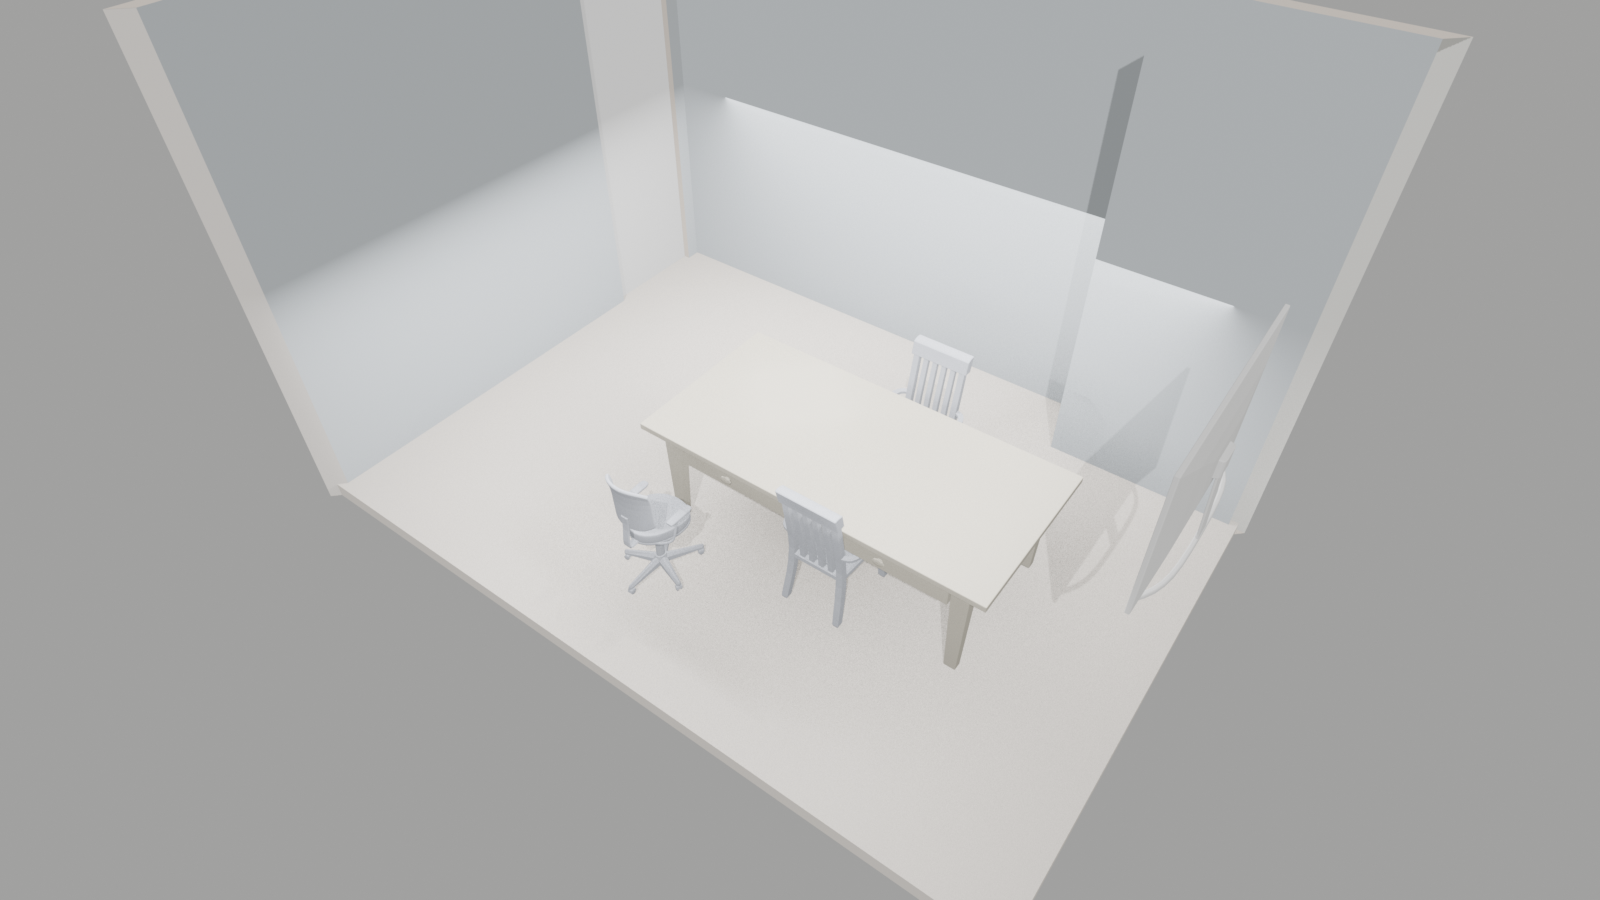
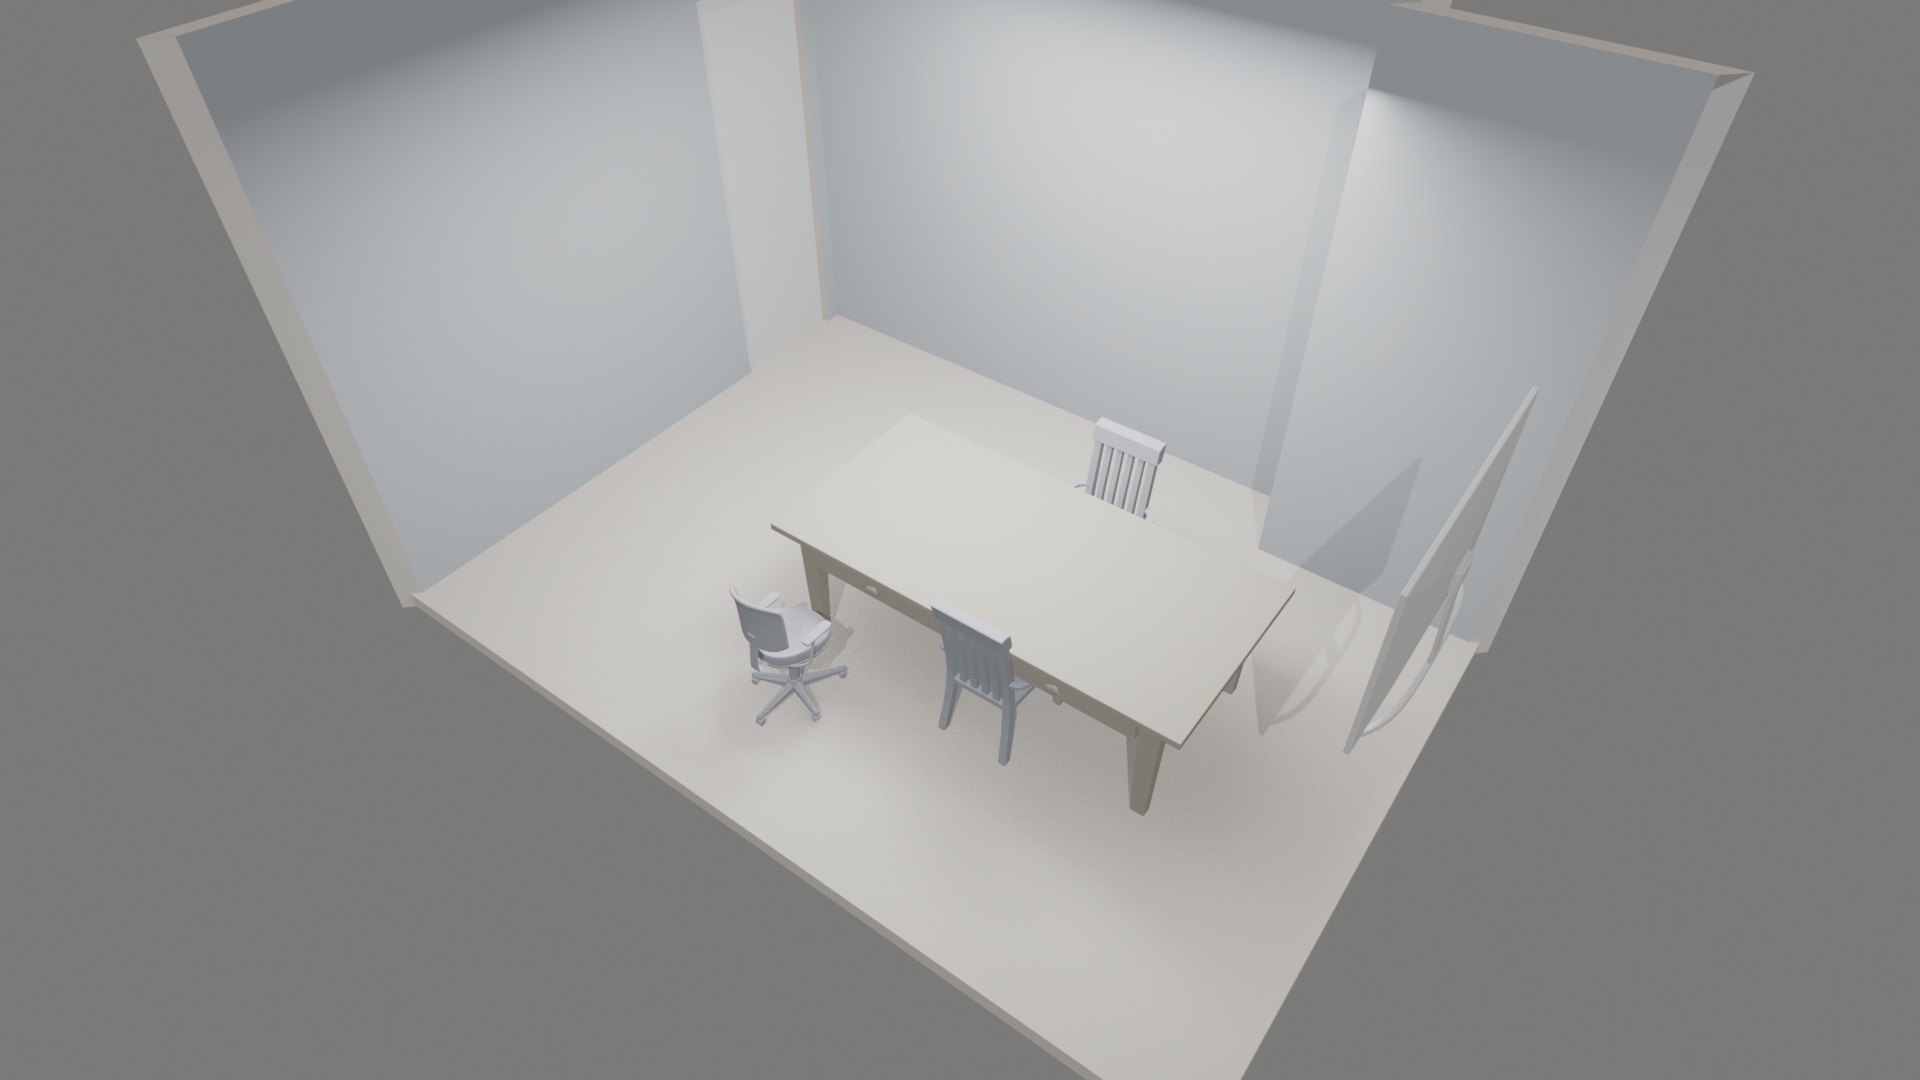
Renders per kyle: eye-level sofa + door shots at 1920x1080, darker; find_spot spacing + wall-edge fixes
scripts/render_blender.py: --shots overview,sofa,door; eye level 1.55 m with the ceiling on; sofa shot picks a
spot round the room with a clear line of sight to the sofa (the scanned table blocked the straight-on view);
exposure -0.6 and dimmer lights so grey fabric reads grey. renders/room_{before,after,sofa,door}.png.
fit/layout.py: new 'spacing' check (a new piece keeps 12 in from other furniture, else unsure) - OSTAVALL had
been placed 4.6 in from the room's table; corners exactly on a wall line count as inside (find_spot's rounded
positions were failing later rechecks, so lamp/rug/table got no spot). 3 new tests.

Decided: 12 in spacing for new pieces (team default, not a code), because 4.6 in reads as a collision.
Decided: 0.25 in wall-edge tolerance, because find_spot returns positions rounded to 0.1 in.

diff --git a/scripts/render_blender.py b/scripts/render_blender.py
@@ -1,10 +1,12 @@
 """Render the scanned room with the agent's picks, headless in Blender (stills for the demo video).
 
     /Applications/Blender.app/Contents/MacOS/Blender -b -P scripts/render_blender.py -- \
-        [--plan contracts/plan.room_scan.json] [--scan assets/room_scan_roomplan.glb] [--out renders/room] [--res 1600x900]
+        [--plan contracts/plan.room_scan.json] [--scan assets/room_scan_roomplan.glb] [--out renders/room]
+        [--res 1920x1080] [--shots overview,sofa,door]
 
-Writes <out>_before.png (the room as scanned) and <out>_after.png (with the agent's products), plus <out>.json with
-every placement. Positions are not invented: each product goes where fit.layout.find_spot says it fits (inside the
+Writes <out>_before.png (the room as scanned, cut-away from above), <out>_after.png (same view with the agent's
+products), <out>_sofa.png (eye level, facing the sofa) and <out>_door.png (eye level, from the doorway), plus
+<out>.json with every placement. Positions are not invented: each product goes where fit.layout.find_spot says it fits (inside the
 walls, clear of the door swing and the scanned furniture). Products use Kyle's models (web/public/models), stretched
 to the catalog's W x D x H; rugs (no model) are flat boxes at their real size.
 """
@@ -21,18 +23,21 @@ from mathutils import Vector
 ROOT = Path(__file__).resolve().parent.parent
 sys.path.insert(0, str(ROOT))
 from fit.layout import add_product, find_spot, layout_from_scan  # noqa: E402
-from fit.scan import load_scan  # noqa: E402
+from fit.scan import load_scan, point_in_poly  # noqa: E402
 
 IN = 0.0254  # inches -> meters
+EYE_M = 1.55  # camera height for eye-level shots
+EXPOSURE = -0.6
 
 
 def args() -> dict:
     a = sys.argv[sys.argv.index("--") + 1:] if "--" in sys.argv else []
     get = lambda f, d: a[a.index(f) + 1] if f in a else d  # noqa: E731
-    w, h = get("--res", "1600x900").lower().split("x")
+    w, h = get("--res", "1920x1080").lower().split("x")
     return {"plan": ROOT / get("--plan", "contracts/plan.room_scan.json"),
             "scan": ROOT / get("--scan", "assets/room_scan_roomplan.glb"),
-            "out": ROOT / get("--out", "renders/room"), "res": (int(w), int(h))}
+            "out": ROOT / get("--out", "renders/room"), "res": (int(w), int(h)),
+            "shots": get("--shots", "overview,sofa,door").split(",")}
 
 
 def place(room: dict, plan: dict, products: dict) -> list[dict]:
@@ -106,7 +111,7 @@ def add_model(item: dict, floor_z: float, models: dict) -> list:
     return [obj]
 
 
-def setup_scene(res: tuple[int, int], lo: Vector, hi: Vector):
+def setup_scene(res: tuple[int, int], lo: Vector, hi: Vector, floor_z: float):
     sc = bpy.context.scene
     for eng in ("BLENDER_EEVEE_NEXT", "BLENDER_EEVEE", "CYCLES"):
         try:
@@ -116,31 +121,129 @@ def setup_scene(res: tuple[int, int], lo: Vector, hi: Vector):
             continue
     sc.render.resolution_x, sc.render.resolution_y = res
     sc.render.film_transparent = False
+    sc.view_settings.exposure = EXPOSURE  # darker than default so mid-grey fabric reads grey, not white
     world = bpy.data.worlds.new("w") if not sc.world else sc.world
     sc.world = world
     world.use_nodes = True
-    world.node_tree.nodes["Background"].inputs["Color"].default_value = (0.92, 0.92, 0.9, 1)
-    world.node_tree.nodes["Background"].inputs["Strength"].default_value = 0.45
+    world.node_tree.nodes["Background"].inputs["Color"].default_value = (0.85, 0.85, 0.83, 1)
+    world.node_tree.nodes["Background"].inputs["Strength"].default_value = 0.35
     centre = (lo + hi) / 2
     sun = bpy.data.objects.new("sun", bpy.data.lights.new("sun", "SUN"))
-    sun.data.energy = 2.0
+    sun.data.energy = 1.5
     sun.rotation_euler = (math.radians(40), 0, math.radians(30))
     sc.collection.objects.link(sun)
+    # room light just under the ceiling, so eye-level shots (ceiling on) are lit too
     area = bpy.data.objects.new("area", bpy.data.lights.new("area", "AREA"))
-    area.data.energy, area.data.size = 250, 4
-    area.location = (centre.x, centre.y, hi.z + 1.5)
+    area.data.energy, area.data.size = 220, 2.5
+    area.location = (centre.x, centre.y, floor_z + 2.7)
     sc.collection.objects.link(area)
     cam = bpy.data.objects.new("cam", bpy.data.cameras.new("cam"))
-    cam.data.lens = 22
-    span = max(hi.x - lo.x, hi.y - lo.y)
-    cam.location = (centre.x + span * 0.55, centre.y - span * 0.75, lo.z + span * 0.95)
     target = bpy.data.objects.new("target", None)
-    target.location = (centre.x, centre.y, lo.z + 0.4)
     sc.collection.objects.link(target)
     c = cam.constraints.new("TRACK_TO")
     c.target, c.track_axis, c.up_axis = target, "TRACK_NEGATIVE_Z", "UP_Y"
     sc.collection.objects.link(cam)
     sc.camera = cam
+    return cam, target
+
+
+def _blocks(seg_a, seg_b, box) -> bool:
+    """Does the 2D segment a->b pass through the box (x0, z0, x1, z1)? (Liang-Barsky clip)"""
+    (ax, az), (bx, bz) = seg_a, seg_b
+    t0, t1 = 0.0, 1.0
+    for p, q in ((-(bx - ax), ax - box[0]), (bx - ax, box[2] - ax), (-(bz - az), az - box[1]), (bz - az, box[3] - az)):
+        if p == 0:
+            if q < 0:
+                return False
+        else:
+            t = q / p
+            if p < 0:
+                t0 = max(t0, t)
+            else:
+                t1 = min(t1, t)
+            if t0 > t1:
+                return False
+    return True
+
+
+def _clear_spot(back: str, sofa: dict, xs, zs, room: dict, placed: list) -> tuple[float, float]:
+    """Camera spot 14 in inside the walls with a clear line of sight to the sofa, closest to facing it head-on.
+
+    The sofa faces away from the wall behind it (`back`); candidates go all round the room's edge."""
+    obstacles = []
+    for it in room["items"] + [{**p, "w_in": p["dims_in"]["w"], "d_in": p["dims_in"]["d"]} for p in placed]:
+        if it.get("category") == "rug" or it.get("product_id") == sofa["product_id"] or not it.get("on_floor", True):
+            continue
+        w, d = (it["d_in"], it["w_in"]) if it.get("rotation", 0) % 180 == 90 else (it["w_in"], it["d_in"])
+        obstacles.append((it["x_in"] - w / 2, it["z_in"] - d / 2, it["x_in"] + w / 2, it["z_in"] + d / 2))
+    sx, sz = sofa["x_in"], sofa["z_in"]
+    face = {"x-": (1, 0), "x+": (-1, 0), "z-": (0, 1), "z+": (0, -1)}[back]
+    x0, x1, z0, z1 = min(xs) + 14, max(xs) - 14, min(zs) + 14, max(zs) - 14
+    cands = [(x0 + i * (x1 - x0) / 30, z) for i in range(31) for z in (z0, z1)] + \
+            [(x, z0 + i * (z1 - z0) / 30) for i in range(31) for x in (x0, x1)]
+    best = None
+    for cx, cz in cands:
+        vx, vz = cx - sx, cz - sz
+        dist = (vx * vx + vz * vz) ** 0.5
+        if dist < 60 or not point_in_poly((cx, cz), room["outline"]):
+            continue
+        if any(_blocks((cx, cz), (sx, sz), b) for b in obstacles):
+            continue
+        cos = (vx * face[0] + vz * face[1]) / dist  # 1 = straight in front of the sofa
+        if cos > 0.2 and (best is None or cos > best[0]):
+            best = (cos, (cx, cz))
+    return best[1] if best else ((x1 if face[0] > 0 else x0) if face[0] else sx, (z1 if face[1] > 0 else z0) if face[1] else sz)
+
+
+def shot(name: str, cam, target, lo: Vector, hi: Vector, floor_z: float, scan_objs: list, placed: list, room: dict):
+    """Set the camera and what's visible for one named shot. Returns False if the shot can't be made."""
+    centre = (lo + hi) / 2
+    cutaway = name == "overview"
+    for o in scan_objs:
+        kind = o.name.split("_")[0]
+        if kind == "Ceiling":
+            o.hide_render = cutaway  # eye-level shots keep the ceiling
+        elif kind in ("Wall", "Joint") and o.type == "MESH":
+            wl, wh = bounds([o])
+            c = (wl + wh) / 2
+            thin_y = (wh.y - wl.y) < (wh.x - wl.x)
+            o.hide_render = cutaway and ((thin_y and c.y < centre.y) or (not thin_y and c.x > centre.x))
+    eye = floor_z + EYE_M
+    if cutaway:
+        span = max(hi.x - lo.x, hi.y - lo.y)
+        cam.data.lens = 22
+        cam.location = (centre.x + span * 0.55, centre.y - span * 0.75, floor_z + span * 0.95)
+        target.location = (centre.x, centre.y, floor_z + 0.4)
+        return True
+    cam.data.lens = 16  # wide, like a phone's 0.5x
+    if name == "sofa":
+        sofa = next((p for p in placed if p["category"] == "sofa"), None)
+        if not sofa:
+            return False
+        xs = [q[0] for q in room["outline"]]
+        zs = [q[1] for q in room["outline"]]
+        sx, sz = sofa["x_in"], sofa["z_in"]
+        # the wall the sofa backs onto is the nearest one; stand by the opposite wall, looking at the sofa
+        sides = {"x-": sx - min(xs), "x+": max(xs) - sx, "z-": sz - min(zs), "z+": max(zs) - sz}
+        back = min(sides, key=sides.get)
+        cx, cz = _clear_spot(back, sofa, xs, zs, room, placed)
+        cam.location = (cx * IN, -cz * IN, eye)
+        target.location = (sx * IN, -sz * IN, floor_z + 0.55)
+        return True
+    if name == "door":
+        if not room["doors"]:
+            return False
+        d = room["doors"][0]
+        (dx, dz), (nx, nz) = d["center"], d["into_room"]
+        cam.location = ((dx + nx * 10) * IN, -(dz + nz * 10) * IN, eye)
+        target.location = (centre.x, centre.y, floor_z + 0.6)
+        return True
+    return False
+
+
+def render(path: str) -> None:
+    bpy.context.scene.render.filepath = path
+    bpy.ops.render.render(write_still=True)
 
 
 def main():
@@ -154,33 +257,27 @@ def main():
     bpy.ops.wm.read_factory_settings(use_empty=True)
     bpy.ops.import_scene.gltf(filepath=str(a["scan"]))
     scan_objs = list(bpy.data.objects)
-    for o in scan_objs:  # no ceiling, so the camera can look in from above
-        if o.name.startswith("Ceiling"):
-            o.hide_render = True
     floor = [o for o in scan_objs if o.name.startswith("Floor_") and o.type == "MESH"]
     lo, hi = bounds(floor or scan_objs)
     floor_z = hi.z if floor else lo.z
-    centre = (lo + hi) / 2
-    for o in scan_objs:  # cut-away view: hide the walls between the camera (front-right) and the room
-        if o.type == "MESH" and o.name.split("_")[0] in ("Wall", "Joint"):
-            wl, wh = bounds([o])
-            c = (wl + wh) / 2
-            thin_y = (wh.y - wl.y) < (wh.x - wl.x)
-            if (thin_y and c.y < centre.y) or (not thin_y and c.x > centre.x):
-                o.hide_render = True
-    setup_scene(a["res"], lo, hi)
-
+    cam, target = setup_scene(a["res"], lo, hi, floor_z)
     a["out"].parent.mkdir(parents=True, exist_ok=True)
-    bpy.context.scene.render.filepath = str(a["out"]) + "_before.png"
-    bpy.ops.render.render(write_still=True)
+    out = str(a["out"])
+    written = []
+    shot("overview", cam, target, lo, hi, floor_z, scan_objs, placed, room)
+    render(out + "_before.png")
+    written.append(out + "_before.png")
     for it in placed:
         add_model(it, floor_z, models)
-    bpy.context.scene.render.filepath = str(a["out"]) + "_after.png"
-    bpy.ops.render.render(write_still=True)
-    Path(str(a["out"]) + ".json").write_text(json.dumps(
-        {"plan": str(a["plan"].relative_to(ROOT)), "scan": str(a["scan"].relative_to(ROOT)), "placed": placed},
-        indent=1, ensure_ascii=False))
-    print(f"render: {len(placed)} products placed -> {a['out']}_before.png, {a['out']}_after.png")
+    for name in a["shots"]:
+        if shot(name, cam, target, lo, hi, floor_z, scan_objs, placed, room):
+            path = out + ("_after.png" if name == "overview" else f"_{name}.png")
+            render(path)
+            written.append(path)
+    Path(out + ".json").write_text(json.dumps(
+        {"plan": str(a["plan"].relative_to(ROOT)), "scan": str(a["scan"].relative_to(ROOT)), "placed": placed,
+         "shots": [Path(w).name for w in written]}, indent=1, ensure_ascii=False))
+    print(f"render: {len(placed)} products placed -> " + ", ".join(Path(w).name for w in written))
 
 
 main()

diff --git a/fit/layout.py b/fit/layout.py
@@ -13,6 +13,7 @@ Checks per floor item:
   in_room    every footprint corner inside the walls (the scan's outline)
   overlap    footprint doesn't overlap another floor item (chairs may tuck under tables; anything may stand on a rug)
   door_swing nothing on the floor inside the door's swing (a door-width square in front of it)
+  spacing    a new piece keeps 12 in from other furniture ("unsure" if closer)
   clearance  at least 18 in to other floor items / walls on some side to get to it ("unsure" if tighter)
 Wall-mounted items (bottom > 24 in, e.g. the TV) are skipped for floor checks.
 """
@@ -25,6 +26,8 @@ from .scan import point_in_poly
 
 CLEARANCE_IN = 18.0  # minimum gap to reach an item (team default, not a code)
 RUG_MARGIN_IN = 6.0  # same as fit.checks.DEFAULT_RUG_MARGIN_IN
+EDGE_TOL_IN = 0.25  # rounding tolerance for touching a wall
+SPACING_IN = 12.0  # a new piece keeps this far from other furniture (team default, not a code)
 TUCK_UNDER = {("dining_chair", "table"), ("dining_chair", "dining_table"), ("desk_chair", "table"),
               ("desk_chair", "desk"), ("desk_chair", "dining_table")}
 CENTRE_CATEGORIES = {"rug", "coffee_table", "dining_table", "table"}  # these go in the open, not against a wall
@@ -84,9 +87,10 @@ def check_item(room: dict, lay: list[dict], it: dict) -> list[dict]:
     fp = _footprint(it)
     out = []
     m = RUG_MARGIN_IN if it["category"] == "rug" else 0.0  # team rule: rugs stay 6 in from every wall
+    m -= EDGE_TOL_IN  # a corner exactly on the wall line counts as inside (positions are rounded to 0.1 in)
     corners = [(fp[0] - m, fp[1] - m), (fp[2] + m, fp[1] - m), (fp[2] + m, fp[3] + m), (fp[0] - m, fp[3] + m)]
     outside = [c for c in corners if not point_in_poly(c, room["outline"])]
-    within = f" (with the {m:g} in rug margin)" if m else ""
+    within = f" (with the {RUG_MARGIN_IN:g} in rug margin)" if it["category"] == "rug" else ""
     out.append(_res("in_room", NO_FIT if outside else FITS,
                     f'corner ({outside[0][0]:.0f}, {outside[0][1]:.0f}) in is outside the walls{within}' if outside
                     else f"all four corners inside the walls{within}"))
@@ -99,6 +103,12 @@ def check_item(room: dict, lay: list[dict], it: dict) -> list[dict]:
                 continue
             out.append(_res("overlap", NO_FIT, f'overlaps {other["label"]} ({other["id"]}) by {ox:.0f} x {oz:.0f} in',
                             with_id=other["id"]))
+        elif it.get("kind") == "new" and not _shares_floor(it, other):
+            # a new piece shouldn't be jammed against existing furniture (looks like a collision, can't walk past)
+            gap = (-ox if oz > 0 else -oz if ox > 0 else ((max(0, -ox)) ** 2 + (max(0, -oz)) ** 2) ** 0.5)
+            if gap < SPACING_IN:
+                out.append(_res("spacing", UNSURE, f'only {gap:.1f} in from {other["label"]} ({other["id"]}); '
+                                                   f'want {SPACING_IN:g} in', with_id=other["id"], gap_in=round(gap, 1)))
     for door in ([] if it["category"] == "rug" else room["doors"]):  # a flat rug doesn't stop a door
         dz = door_zone(door)
         ox, oz = _overlap(fp, dz)

diff --git a/fit/test_layout.py b/fit/test_layout.py
@@ -57,6 +57,32 @@ class Layout(unittest.TestCase):
         self.assertAlmostEqual(x1 - x0, 32.0, delta=0.5)
         self.assertGreater(x1, R["doors"][0]["center"][0])
 
+    def test_new_piece_too_close_is_unsure(self):
+        table = next(i for i in R["items"] if i["category"] == "table")
+        ost = P["ikea-ostavall-adjustable-coffee-table-black-35-3-8-40534152"]
+        left_edge = table["x_in"] - table["w_in"] / 2
+        lay = add_product(layout_from_scan(R), ost, left_edge - ost["dims_in"]["w"] / 2 - 4.6, table["z_in"], 0)
+        res = check_layout(R, lay)[ost["id"]]
+        sp = [r for r in res if r["check"] == "spacing"]
+        self.assertTrue(sp and sp[0]["verdict"] == "unsure")
+        self.assertIn("4.6 in from table_other_rect", sp[0]["math"])
+
+    def test_corner_on_wall_line_counts_inside(self):
+        poang = P["ikea-poang-armchair-birch-veneer-knisa-light-beige-59305928"]
+        wall_z = min(p[1] for p in R["outline"])
+        lay = add_product(layout_from_scan(R), poang, -27.6, wall_z + poang["dims_in"]["d"] / 2, 0)
+        r = [x for x in check_layout(R, lay)[poang["id"]] if x["check"] == "in_room"][0]
+        self.assertEqual(r["verdict"], FITS)
+
+    def test_whole_plan_places_and_fits(self):
+        plan = json.loads((ROOT / "contracts/plan.room_scan.json").read_text())
+        lay = layout_from_scan(R)
+        for it in sorted(plan["items"], key=lambda i: P[i["product_id"]]["category"] == "rug"):
+            s = find_spot(R, lay, P[it["product_id"]])
+            self.assertIsNotNone(s, it["product_id"])
+            lay = add_product(lay, P[it["product_id"]], s["x_in"], s["z_in"], s["rotation"])
+        self.assertTrue(all(overall(rs) == FITS for rs in check_layout(R, lay).values()))
+
 
 if __name__ == "__main__":
     unittest.main()
